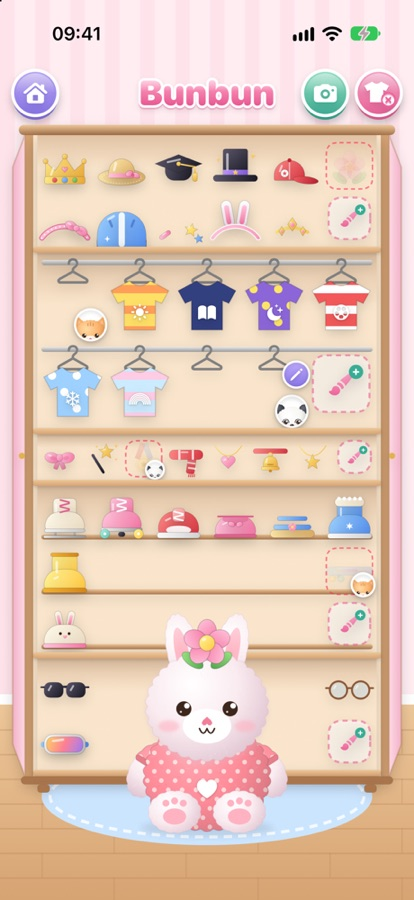
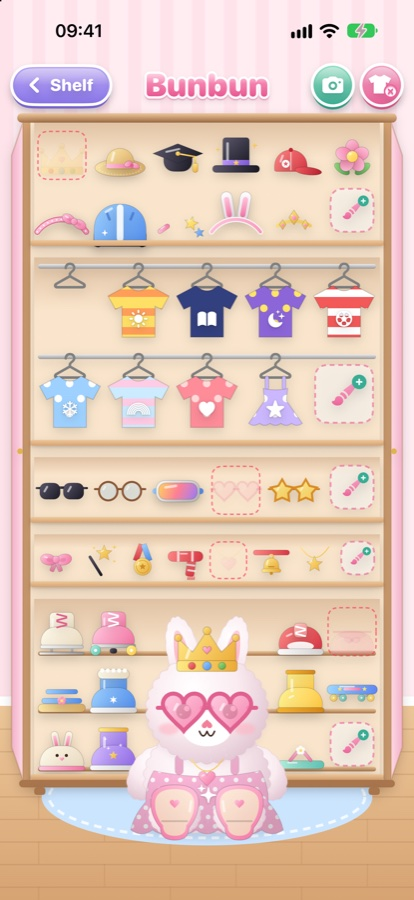
Update for Puffy Closet 1.1.0: Apple TV, runway show, ten puffs

diff --git a/index.html b/index.html
@@ -4,9 +4,9 @@
 <meta charset="utf-8">
 <meta name="viewport" content="width=device-width, initial-scale=1">
 <title>Puffy Closet</title>
-<meta name="description" content="A cozy dress-up game for little ones. Eight fluffy puffs, one magical closet, a drawing studio and a photo studio. No ads, no in-app purchases, no data collected.">
+<meta name="description" content="A cozy dress-up game for little ones on iPhone, iPad and Apple TV. Ten fluffy puffs, one magical closet, a runway show, a drawing studio and a photo studio. No ads, no in-app purchases, no data collected.">
 <meta property="og:title" content="Puffy Closet">
-<meta property="og:description" content="Eight fluffy puffs, one magical closet. A cozy dress-up game for little ones on iPhone and iPad.">
+<meta property="og:description" content="Ten fluffy puffs, one magical closet and a runway show. A cozy dress-up game for little ones on iPhone, iPad and Apple TV.">
 <meta property="og:image" content="images/header.jpg">
 <link rel="icon" href="images/icon.png">
 <link rel="apple-touch-icon" href="images/icon.png">
@@ -126,6 +126,7 @@
 
   .split { display: grid; grid-template-columns: 1.3fr 1fr; gap: 26px; align-items: center; }
   .split img { border-radius: 22px; box-shadow: var(--shadow); }
+  .split.flip { grid-template-columns: 1fr 1.3fr; }
 
   .safe { background: var(--card); border-radius: 28px; padding: 30px 22px; box-shadow: var(--shadow); text-align: center; }
   .safe ul { list-style: none; padding: 0; margin: 18px 0 0; display: flex; flex-wrap: wrap; justify-content: center; gap: 10px; }
@@ -138,7 +139,7 @@
   @media (max-width: 820px) {
     .phones { grid-template-columns: repeat(2, 1fr); }
     .features { grid-template-columns: 1fr; }
-    .split { grid-template-columns: 1fr; }
+    .split, .split.flip { grid-template-columns: 1fr; }
   }
 </style>
 </head>
@@ -147,11 +148,12 @@
     <div class="brand"><img src="images/icon.png" alt="">Puffy Closet</div>
     <div class="banner"><img src="images/header.jpg" alt="Puffy Closet logo with dressed-up bunny, bear, panda and dinosaur puffs in a pastel kids' room"></div>
     <div class="intro">
-      <h1>Eight fluffy puffs,<br>one magical closet</h1>
-      <p class="lead">A cozy dress-up game for little ones. Pick a puff, open the closet, dress it up, draw your own clothes and take sweet photos.</p>
+      <h1>Ten fluffy puffs,<br>one magical closet</h1>
+      <p class="lead">A cozy dress-up game for little ones. Pick a puff, open the closet, dress it up, draw your own clothes, take sweet photos and put on a runway show.</p>
       <div class="badges">
         <span class="badge">iPhone</span>
         <span class="badge">iPad</span>
+        <span class="badge">Apple TV</span>
         <span class="badge">iPhone Duo</span>
       </div>
       <a class="cta" href="https://apps.apple.com/app/id6824496518">Get it on the App Store</a>
@@ -160,13 +162,13 @@
 
   <main class="wrap">
     <section>
-      <h2>Tap, dress, draw, smile</h2>
+      <h2>Tap, dress, strut, smile</h2>
       <p class="sub">Big friendly buttons, no reading needed. Everything fits on one screen.</p>
       <div class="phones">
-        <div class="phone"><figure><img src="images/iphone-home.jpg" alt="Kids room with a bookshelf of eight puffs and a closet" loading="lazy"><figcaption>Pick a puff</figcaption></figure></div>
-        <div class="phone"><figure><img src="images/iphone-closet.jpg" alt="Open closet with hats, outfits, glasses, necklaces and shoes" loading="lazy"><figcaption>Open the closet</figcaption></figure></div>
-        <div class="phone"><figure><img src="images/iphone-studio.jpg" alt="Drawing studio with crayons on a cat puff" loading="lazy"><figcaption>Draw your own</figcaption></figure></div>
-        <div class="phone"><figure><img src="images/iphone-photo.jpg" alt="Photo studio with a bear puff at the beach" loading="lazy"><figcaption>Snap a photo</figcaption></figure></div>
+        <div class="phone"><figure><img src="images/iphone-home.jpg" alt="Kids room with a bookshelf of puffs, a hamster on top of the shelf and a flamingo on the closet" loading="lazy"><figcaption>Pick a puff</figcaption></figure></div>
+        <div class="phone"><figure><img src="images/iphone-closet.jpg" alt="Open closet with hats, outfits, glasses, necklaces and shoes in front of a bunny puff" loading="lazy"><figcaption>Open the closet</figcaption></figure></div>
+        <div class="phone"><figure><img src="images/iphone-runway.jpg" alt="Runway show with a bear puff in a top hat posing on stage" loading="lazy"><figcaption>Runway show</figcaption></figure></div>
+        <div class="phone"><figure><img src="images/iphone-photo.jpg" alt="Photo studio with a cat puff at the beach" loading="lazy"><figcaption>Snap a photo</figcaption></figure></div>
       </div>
     </section>
 
@@ -174,18 +176,18 @@
       <h2>Made for little hands</h2>
       <p class="sub">Simple taps, happy sounds and lots to discover.</p>
       <div class="features">
-        <div class="card"><h3><span class="dot" style="background:#ff8ab4"></span>A real closet</h3><p>Hats, tees, dresses, glasses, necklaces and a shoe rack. Tap an item and it flies onto your puff.</p></div>
+        <div class="card"><h3><span class="dot" style="background:#ff8ab4"></span>A real closet</h3><p>Hats, tees, dresses, hoodies, all kinds of glasses, necklaces and a shoe rack. Tap an item and it flies onto your puff. Just like real life, each item can be worn by one puff at a time.</p></div>
         <div class="card"><h3><span class="dot" style="background:#a08cf0"></span>Drawing studio</h3><p>Paint right on your puff with crayons, brushes, a paint bucket and an eraser. Your creations go into the closet.</p></div>
         <div class="card"><h3><span class="dot" style="background:#5fd3b0"></span>Photo studio</h3><p>Beach, snowy hill, castle, space, garden or stage. Or paint your own background with stickers.</p></div>
         <div class="card"><h3><span class="dot" style="background:#ffcf5a"></span>Puffs that move</h3><p>They stand up, dance and wiggle when you tap them, so you can see their shoes up close.</p></div>
-        <div class="card"><h3><span class="dot" style="background:#7cc4ff"></span>One owner per item</h3><p>Just like real life, a sweater worn by one puff can't be worn by another. Sharing is a little lesson.</p></div>
-        <div class="card"><h3><span class="dot" style="background:#ff9f6b"></span>Soft sounds</h3><p>A music-box lullaby and gentle effects, with a mute button for grown-ups.</p></div>
+        <div class="card"><h3><span class="dot" style="background:#ff6b8a"></span>Runway show</h3><p>Dressed-up puffs strut onto the stage, pose under the spotlights and take a bow together while the crowd cheers.</p></div>
+        <div class="card"><h3><span class="dot" style="background:#ff9f6b"></span>Soft sounds</h3><p>A music-box lullaby, a bouncy runway tune and gentle effects. Music and sound effects each have their own off switch.</p></div>
       </div>
     </section>
 
     <section>
       <div class="split">
-        <img src="images/ipad-closet.jpg" alt="iPad dress-up screen with a big dinosaur puff and a full closet" loading="lazy">
+        <img src="images/ipad-closet.jpg" alt="iPad dress-up screen with a big bunny puff and a full closet" loading="lazy">
         <div>
           <h2 style="text-align:left">Big and roomy on iPad</h2>
           <p style="color:var(--muted)">On iPad the puff sits big on the floor next to a full-height closet. On iPhone Duo the room spreads across both halves of the screen, and the puff even dances on a little runway in tent mode.</p>
@@ -194,9 +196,20 @@
     </section>
 
     <section>
+      <div class="split flip">
+        <div>
+          <h2 style="text-align:left">New: the big screen on Apple TV</h2>
+          <p style="color:var(--muted)">Bring the whole family to the couch. Pick a puff with the Siri Remote, dress it up from a closet full of tabs and watch the runway show on the TV. The same app works on iPhone, iPad and Apple TV with one purchase.</p>
+        </div>
+        <img src="images/tv-runway.jpg" alt="Apple TV runway show with a bear puff posing on stage" loading="lazy">
+      </div>
+      <img src="images/tv-home.jpg" alt="Apple TV home screen with ten puffs on a wide bookshelf" loading="lazy" style="margin-top:22px;border-radius:22px;box-shadow:var(--shadow)">
+    </section>
+
+    <section>
       <h2>Meet the puffs</h2>
-      <p class="sub">Teddy, Bunbun, Mochi, Pandy, Ribbit, Puffy, Rexy and Coco.</p>
-      <img src="images/characters.jpg" alt="All eight puffs, plain and dressed up" loading="lazy" style="max-width:640px;margin:0 auto;border-radius:22px;box-shadow:var(--shadow)">
+      <p class="sub">Teddy, Bunbun, Mochi, Pandy, Ribbit, Puffy, Rexy, Coco and the new friends Hamham and Fifi.</p>
+      <img src="images/characters.jpg" alt="All ten puffs, plain and dressed up" loading="lazy" style="max-width:640px;margin:0 auto;border-radius:22px;box-shadow:var(--shadow)">
     </section>
 
     <section>
